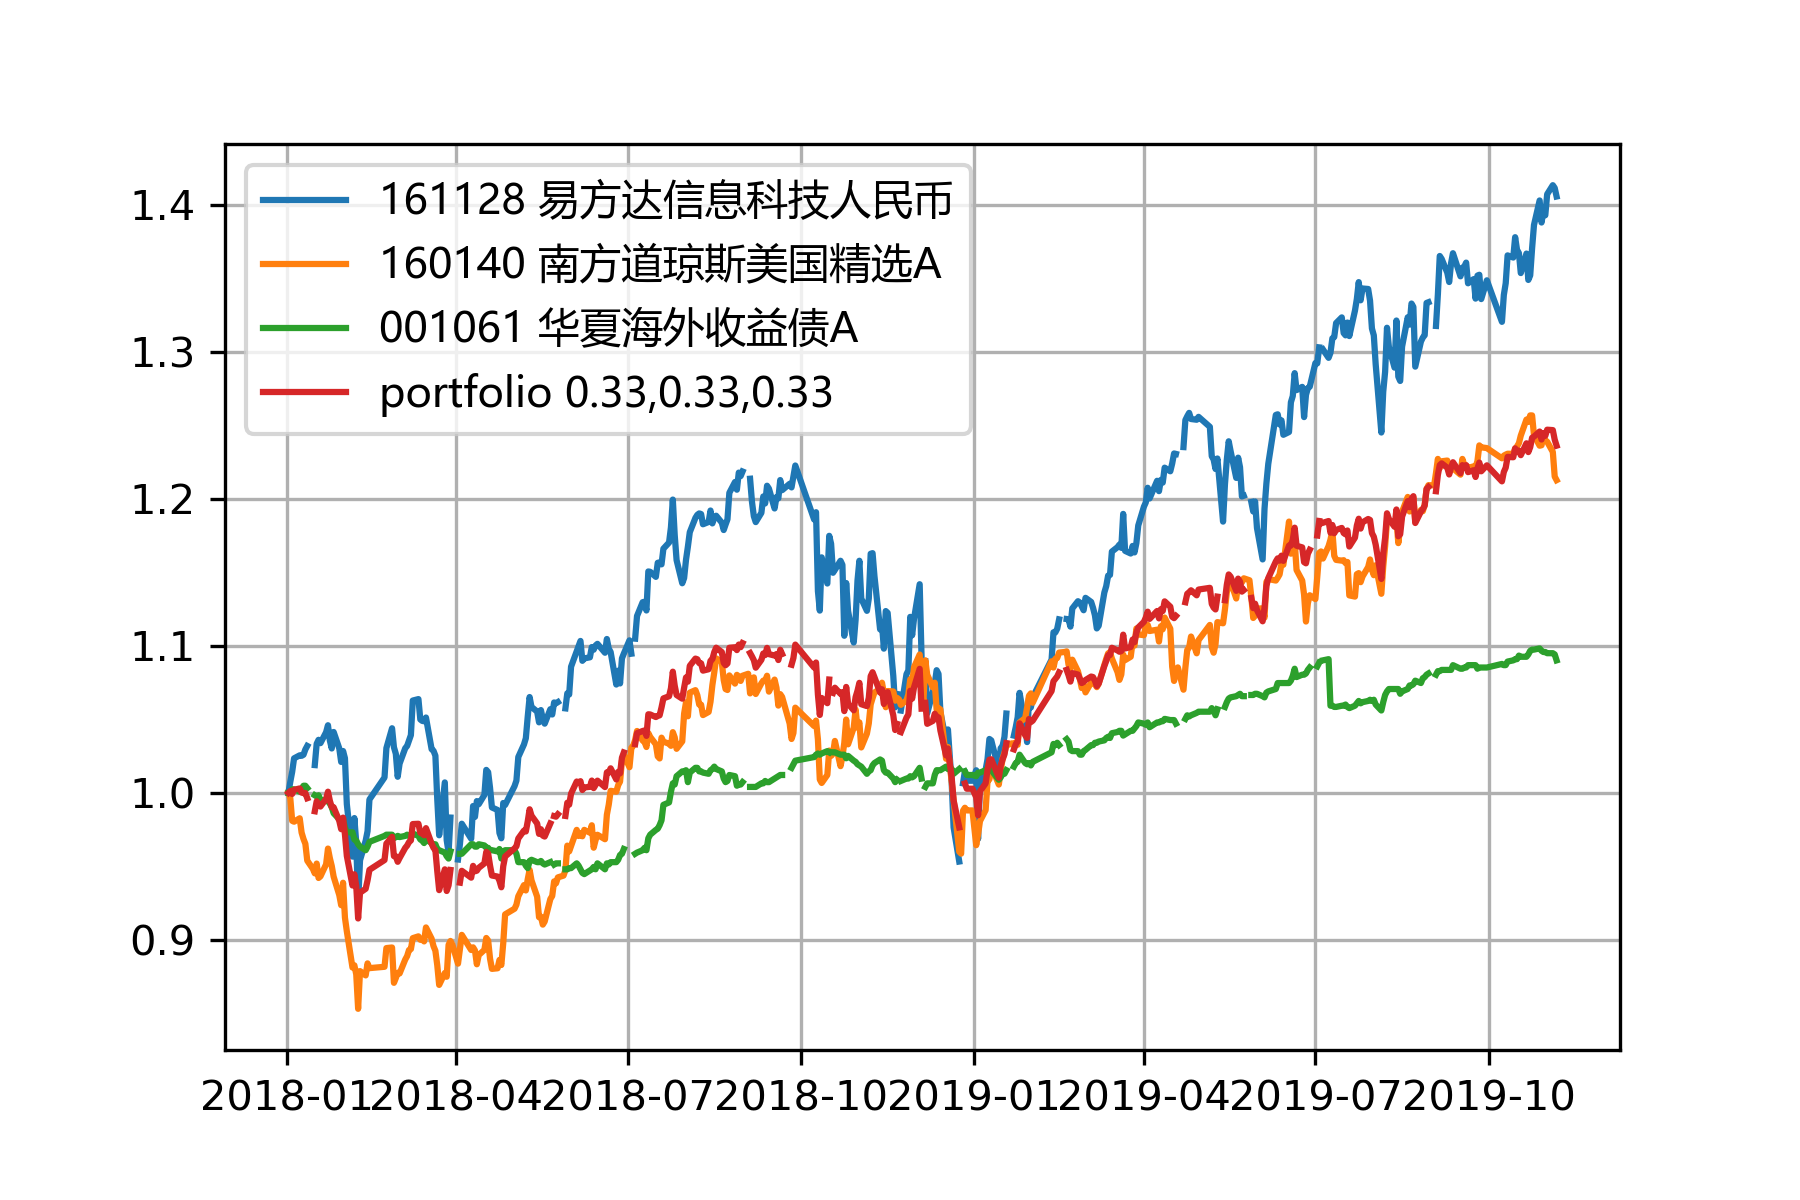
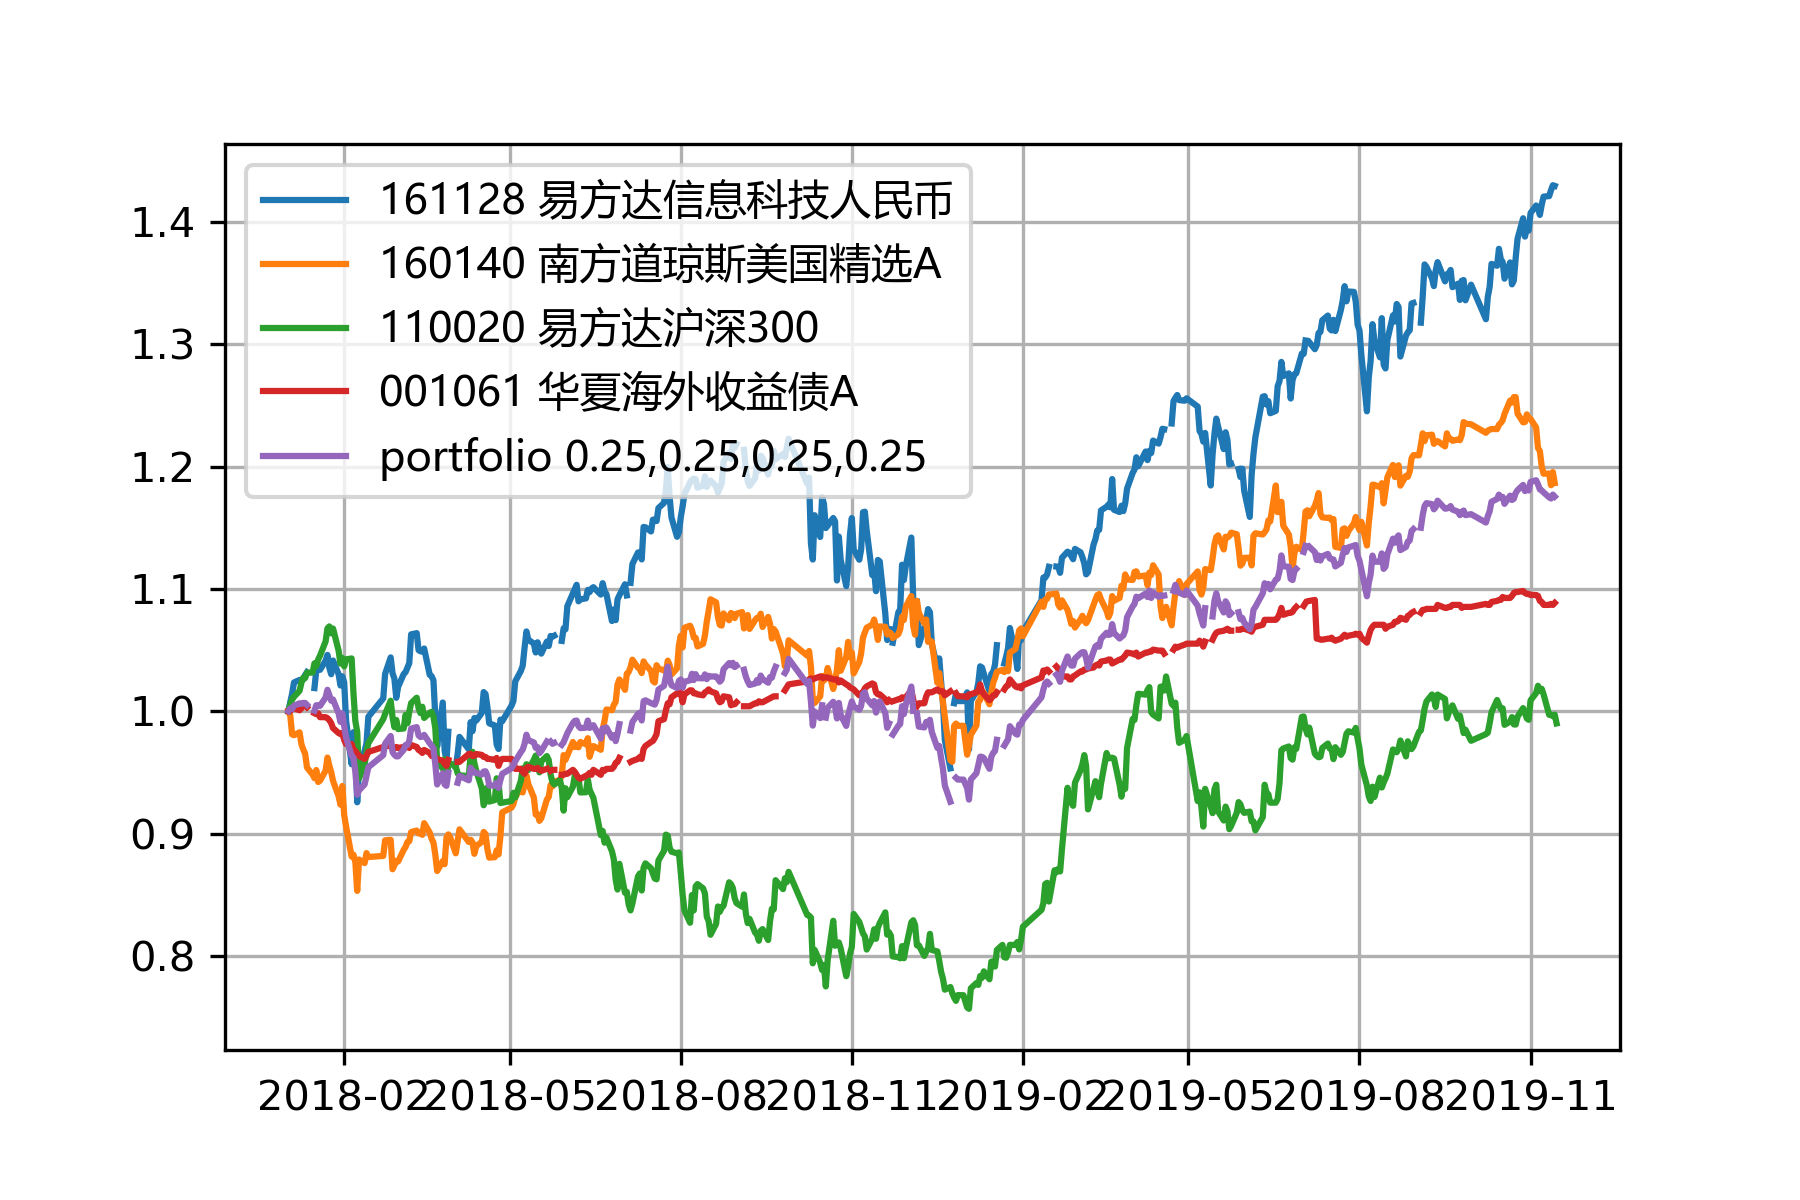
edit README.md

diff --git a/funddata.py b/funddata.py
@@ -18,11 +18,11 @@ import os.path
 if __name__ == "__main__":
 
     startdate = '2018-01-01'
-    enddate = '2019-11-08'
-    codelist = ['161128', '160140', '001061']
+    enddate = '2019-12-31'
+    codelist = ['161128', '160140', '110020', '001061']
 
     # 0 for unit net value; 1 for accumulated net value
-    value_field_index = 0
+    value_field_index = 1
     value_field = ['fld_unitnetvalue', 'fld_netvalue'][value_field_index]
 
     # Read command line arguments

diff --git a/README.md b/README.md
@@ -5,10 +5,10 @@ The code was written in and tested with Python 3.6 (Anaconda 4.4.0).
 ## Usage
 #### Run the program with command line arguments of start date, end date and a list of fund codes
 #### Example:
-python funddata.py 2018-01-01 2019-11-08 161128 160140 001061
+python funddata.py 2018-01-01 2019-12-31 161128 160140 110020 001061
 
-## Plot of unit net values
+## A plot of unit net values (fld_unitnetvalue)
 ![Screenshot](fld_unitnetvalue.png)
 
-## Plot of accumulated net values
+## A plot of accumulated net values (fld_netvalue)
 ![Screenshot](fld_netvalue.png)
